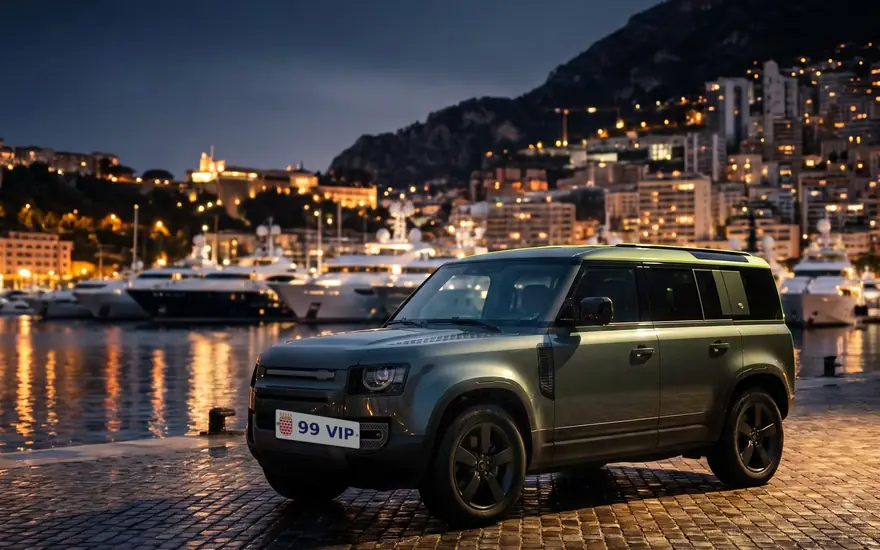
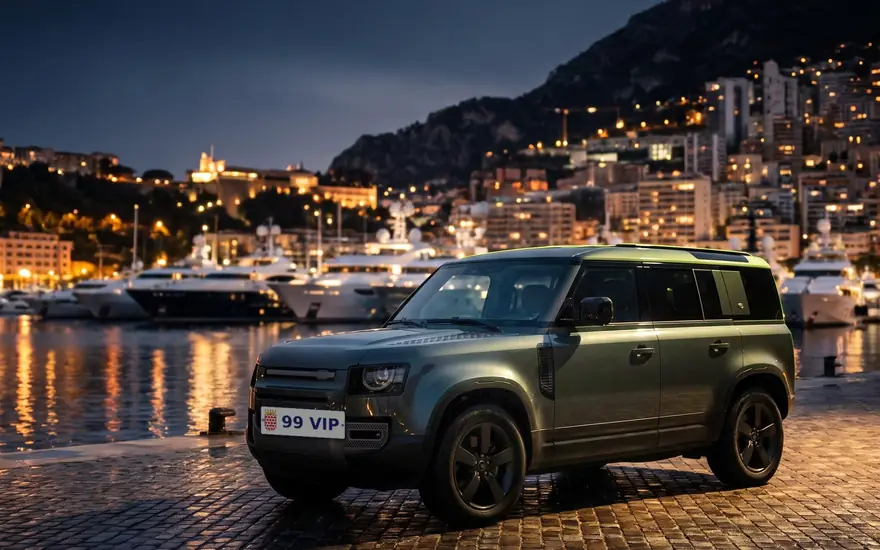
renderings v4 — plates levelled
Claude-Session: https://claude.ai/code/session_01SfyijiE6x9Qe6cPrQUpFHU

Changed region(s): [[0.2761, 0.7418, 0.4295, 0.8345]]

diff --git a/index.html b/index.html
@@ -13,14 +13,14 @@
 <meta property="og:site_name" content="Carprix">
 <meta property="og:title" content="Carprix — Luxury SUVs, by subscription">
 <meta property="og:description" content="Quarterly membership in three tiers. One flat price in USD, vehicles sourced globally, two signatures, one agreement. choose. sign. drive.">
-<meta property="og:image" content="https://carprix.vip/assets/og-image.jpg?v=3">
+<meta property="og:image" content="https://carprix.vip/assets/og-image.jpg?v=4">
 <meta property="og:image:width" content="1200">
 <meta property="og:image:height" content="630">
 <meta property="og:image:alt" content="CARPRIX — choose. sign. drive. A tier DELTA SUV on the quay of Port Hercule, Monaco, at dusk (representative rendering).">
 <meta name="twitter:card" content="summary_large_image">
 <meta name="twitter:title" content="Carprix — Luxury SUVs, by subscription">
 <meta name="twitter:description" content="Quarterly membership in three tiers. One flat price in USD, vehicles sourced globally, two signatures, one agreement. choose. sign. drive.">
-<meta name="twitter:image" content="https://carprix.vip/assets/og-image.jpg?v=3">
+<meta name="twitter:image" content="https://carprix.vip/assets/og-image.jpg?v=4">
 <!-- Icons -->
 <link rel="icon" type="image/png" sizes="32x32" href="/assets/favicon-32.png">
 <link rel="icon" type="image/png" sizes="64x64" href="/assets/favicon-64.png">
@@ -40,7 +40,7 @@
       "name": "Carprix, LLC",
       "url": "https://carprix.vip/",
       "logo": "https://carprix.vip/assets/logo-icon.png",
-      "image": "https://carprix.vip/assets/og-image.jpg?v=3",
+      "image": "https://carprix.vip/assets/og-image.jpg?v=4",
       "slogan": "choose. sign. drive.",
       "email": "concierge@carprix.vip",
       "address": { "@type": "PostalAddress", "addressLocality": "Coral Gables", "addressRegion": "FL", "addressCountry": "US" }
@@ -104,7 +104,7 @@
     <div class="hero-visual">
       <!-- Hero rendering (D21, 2026-09-03): tier DELTA vehicle at Port Hercule, Monaco — WebP 1400×1120 (118 KB) + 900w. -->
       <div class="ph hero-card has-photo">
-        <img class="ph__img" src="/assets/photos/hero-defender-1400.webp?v=3" srcset="/assets/photos/hero-defender-900.webp?v=3 900w, /assets/photos/hero-defender-1400.webp?v=3 1400w" sizes="(min-width: 1024px) 46vw, 100vw" width="1400" height="1120" alt="Land Rover Defender 110 (tier DELTA) on the quay of Port Hercule, Monaco, at dusk — representative rendering" fetchpriority="high" decoding="async">
+        <img class="ph__img" src="/assets/photos/hero-defender-1400.webp?v=4" srcset="/assets/photos/hero-defender-900.webp?v=4 900w, /assets/photos/hero-defender-1400.webp?v=4 1400w" sizes="(min-width: 1024px) 46vw, 100vw" width="1400" height="1120" alt="Land Rover Defender 110 (tier DELTA) on the quay of Port Hercule, Monaco, at dusk — representative rendering" fetchpriority="high" decoding="async">
         <div class="hero-card__words" aria-hidden="true"><span>choose.</span><span>sign.</span><span>drive.</span></div>
         <div class="hero-card__meta" aria-hidden="true">
           <div class="chip">
@@ -233,12 +233,12 @@
     <ul class="fleet__grid" role="list">
       <!-- Tiles: representative renderings of each model in a Monaco setting (D21), WebP 880×550 ≤ 52 KB, lazy.
            Every vehicle carries a Monaco-style "99 VIP" plate with a similar (not official) emblem — design/renderings/plates.py. -->
-      <li class="ph car reveal has-photo"><img class="ph__img" src="/assets/photos/tile-alfa-q3.webp?v=3" width="880" height="550" alt="Audi Q3 on the Avenue Princesse Grace seafront, Monaco — representative rendering" loading="lazy" decoding="async"><div class="car__tier">Tier ALFA</div><div class="car__name">Audi Q3</div></li>
-      <li class="ph car reveal has-photo"><img class="ph__img" src="/assets/photos/tile-alfa-evoque.webp?v=3" width="880" height="550" alt="Land Rover Evoque in front of the Casino de Monte-Carlo gardens — representative rendering" loading="lazy" decoding="async"><div class="car__tier">Tier ALFA</div><div class="car__name">Land Rover Evoque</div></li>
-      <li class="ph car reveal has-photo"><img class="ph__img" src="/assets/photos/tile-bravo-q5.webp?v=3" width="880" height="550" alt="Audi Q5 on the Moyenne Corniche above Monaco at sunset — representative rendering" loading="lazy" decoding="async"><div class="car__tier">Tier BRAVO</div><div class="car__name">Audi Q5</div></li>
-      <li class="ph car reveal has-photo"><img class="ph__img" src="/assets/photos/tile-bravo-x4.webp?v=3" width="880" height="550" alt="BMW X4 at the Fairmont hairpin tunnel, Monaco, at night — representative rendering" loading="lazy" decoding="async"><div class="car__tier">Tier BRAVO</div><div class="car__name">BMW X4</div></li>
-      <li class="ph car reveal has-photo"><img class="ph__img" src="/assets/photos/tile-delta-x5.webp?v=3" width="880" height="550" alt="BMW X5 on the Larvotto seafront, Monaco, at blue hour — representative rendering" loading="lazy" decoding="async"><div class="car__tier">Tier DELTA</div><div class="car__name">BMW X5</div></li>
-      <li class="ph car reveal has-photo"><img class="ph__img" src="/assets/photos/tile-delta-defender.webp?v=3" width="880" height="550" alt="Land Rover Defender 110 on the quay of Port Hercule, Monaco — representative rendering" loading="lazy" decoding="async"><div class="car__tier">Tier DELTA</div><div class="car__name">Land Rover Defender</div></li>
+      <li class="ph car reveal has-photo"><img class="ph__img" src="/assets/photos/tile-alfa-q3.webp?v=4" width="880" height="550" alt="Audi Q3 on the Avenue Princesse Grace seafront, Monaco — representative rendering" loading="lazy" decoding="async"><div class="car__tier">Tier ALFA</div><div class="car__name">Audi Q3</div></li>
+      <li class="ph car reveal has-photo"><img class="ph__img" src="/assets/photos/tile-alfa-evoque.webp?v=4" width="880" height="550" alt="Land Rover Evoque in front of the Casino de Monte-Carlo gardens — representative rendering" loading="lazy" decoding="async"><div class="car__tier">Tier ALFA</div><div class="car__name">Land Rover Evoque</div></li>
+      <li class="ph car reveal has-photo"><img class="ph__img" src="/assets/photos/tile-bravo-q5.webp?v=4" width="880" height="550" alt="Audi Q5 on the Moyenne Corniche above Monaco at sunset — representative rendering" loading="lazy" decoding="async"><div class="car__tier">Tier BRAVO</div><div class="car__name">Audi Q5</div></li>
+      <li class="ph car reveal has-photo"><img class="ph__img" src="/assets/photos/tile-bravo-x4.webp?v=4" width="880" height="550" alt="BMW X4 at the Fairmont hairpin tunnel, Monaco, at night — representative rendering" loading="lazy" decoding="async"><div class="car__tier">Tier BRAVO</div><div class="car__name">BMW X4</div></li>
+      <li class="ph car reveal has-photo"><img class="ph__img" src="/assets/photos/tile-delta-x5.webp?v=4" width="880" height="550" alt="BMW X5 on the Larvotto seafront, Monaco, at blue hour — representative rendering" loading="lazy" decoding="async"><div class="car__tier">Tier DELTA</div><div class="car__name">BMW X5</div></li>
+      <li class="ph car reveal has-photo"><img class="ph__img" src="/assets/photos/tile-delta-defender.webp?v=4" width="880" height="550" alt="Land Rover Defender 110 on the quay of Port Hercule, Monaco — representative rendering" loading="lazy" decoding="async"><div class="car__tier">Tier DELTA</div><div class="car__name">Land Rover Defender</div></li>
     </ul>
     <p class="fleet__note">Models are representative of each tier; Carprix may substitute an equivalent vehicle of the same tier. Vehicle images are representative renderings, not photographs of a specific vehicle — the actual vehicle, model year and specification are confirmed before delivery. Manufacturer names are used only to identify the vehicles offered; Carprix is not affiliated with any manufacturer.</p>
   </div>
